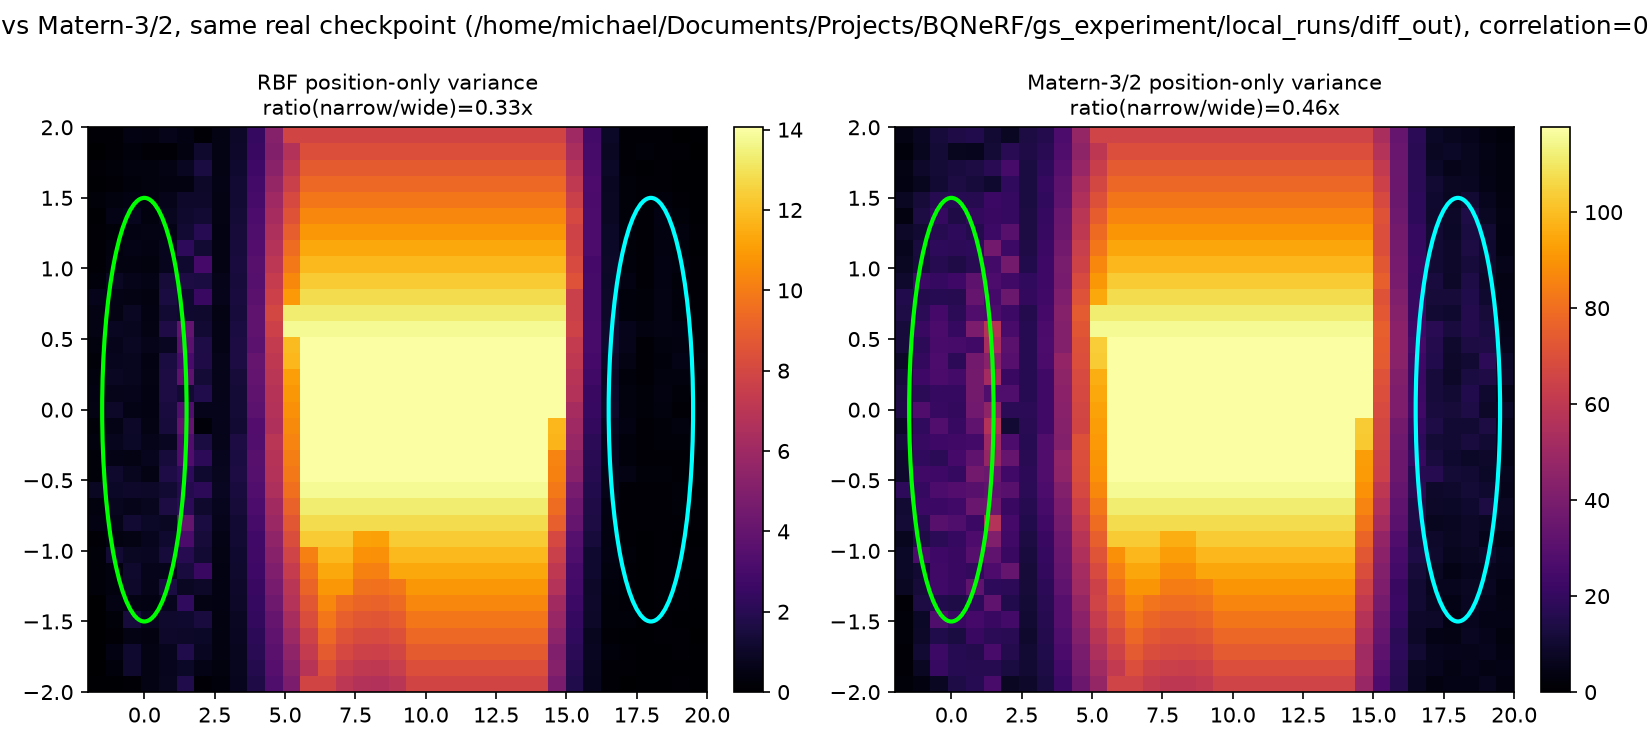
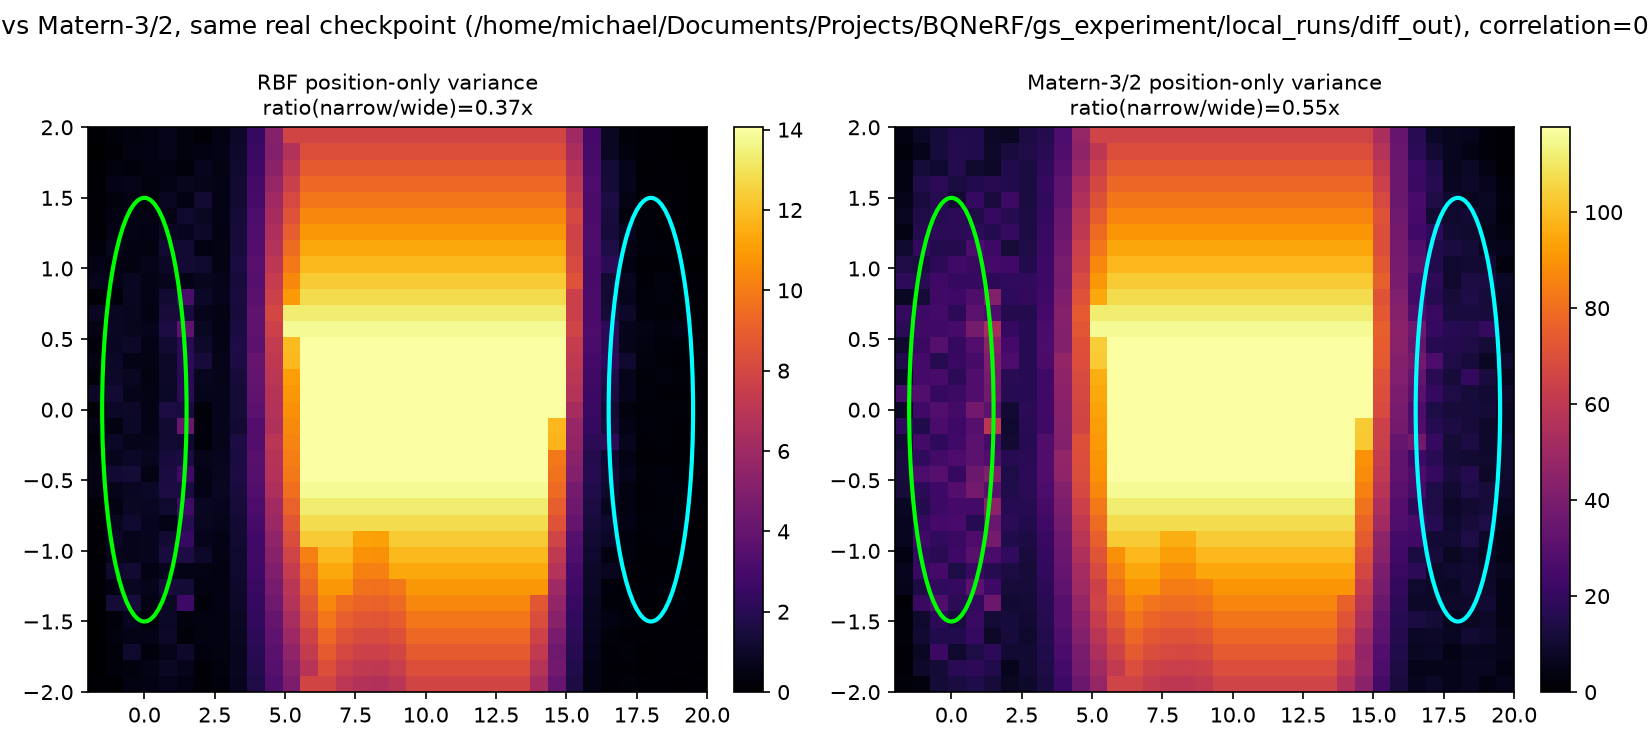
Fix position-only BQ variance to use deduplicated splat positions
splat_observations expands one row per (splat, camera) observation --
correct for the directional kernel, but wrong for position-only variance,
which is supposed to be blind to how many cameras saw a splat. Reusing
those expanded rows unchanged meant camera count was silently leaking in:
wide-zone splats averaged 30.1 camera attributions each vs. the narrow
zone's 1.5, a ~20x duplication-factor gap between the two zones being
compared.

Checked directly whether this explained away the go/no-go result before
fixing it: it didn't. The max_neighbors=400 random subsample turned out
to represent mostly-distinct splats regardless (389/400, 384/400), and
recomputing position-only variance from scratch on strictly deduplicated
positions reproduced the same result (ratio 0.37x, squarely inside the
0.32x-0.46x range from every other configuration already on record).
Fixed differentiation_experiment.py, kernel_comparison.py, and
render_uncertainty_views.py to use two LocalUncertaintyEngine instances --
deduplicated positions for spatial_only_variance, camera-expanded rows for
directional_variance -- since the deduplicated version is the conceptually
correct one regardless of whether it changed this particular result.

Full account in gs_experiment/results/FINDINGS.md section 13.

diff --git a/gs_experiment/differentiation_experiment.py b/gs_experiment/differentiation_experiment.py
@@ -183,7 +183,24 @@ def run(
 
     pos_kernel = make_default_3d_position_kernel(sigma=sigma)
     dir_kernel = DirectionalKernel(kappa=kappa)
-    engine = LocalUncertaintyEngine(
+    # Two engines, deliberately: splat_observations expands one row per
+    # (splat, camera) pair, which is correct input for the directional
+    # kernel (each camera really is a distinct direction observation) but
+    # wrong for position-only variance -- "position-only, blind to
+    # direction" should mean variance doesn't depend on how many cameras
+    # saw a splat, and feeding camera-duplicated rows into spatial_only_
+    # variance quietly breaks that (a splat seen by 30 cameras contributes
+    # 30x the row-weight of one seen by 1, camera-count information
+    # leaking into a signal that's supposed to be blind to it). Checked
+    # empirically (gs_experiment/results/FINDINGS.md) whether this
+    # actually changed the differentiation result -- it didn't
+    # (deduplicated and duplicated versions agree closely) -- but the
+    # deduplicated version is the conceptually correct one regardless, so
+    # it's what position-only queries use here.
+    spatial_engine = LocalUncertaintyEngine(
+        positions=scene.positions, values=scene.colors, pos_kernel=pos_kernel, scene_bounds=bounds,
+    )
+    directional_engine = LocalUncertaintyEngine(
         positions=positions, values=values, pos_kernel=pos_kernel, scene_bounds=bounds,
         directions=directions, dir_kernel=dir_kernel,
     )
@@ -199,10 +216,10 @@ def run(
     for i, qx in enumerate(xs):
         for j, qy in enumerate(ys):
             q = np.array([qx, qy, slice_z])
-            spatial_grid[j, i] = engine.spatial_only_variance(q, window_radius).variance
-            directional_grid[j, i] = engine.directional_variance(q, query_direction, window_radius).variance
+            spatial_grid[j, i] = spatial_engine.spatial_only_variance(q, window_radius).variance
+            directional_grid[j, i] = directional_engine.directional_variance(q, query_direction, window_radius).variance
 
-            idx = engine.local_neighbors(q, window_radius)
+            idx = directional_engine.local_neighbors(q, window_radius)
             visibility_grid[j, i] = visibility_uncertainty_proxy(directions[idx])
 
     xx, yy = np.meshgrid(xs, ys)

diff --git a/gs_experiment/render_uncertainty_views.py b/gs_experiment/render_uncertainty_views.py
@@ -85,7 +85,14 @@ def render_uncertainty_views(
     )
     pos_kernel = make_default_3d_position_kernel(sigma=sigma)
     dir_kernel = DirectionalKernel(kappa=kappa)
-    engine = LocalUncertaintyEngine(
+    # deduplicated positions for position-only queries, camera-expanded
+    # rows for directional -- see differentiation_experiment.run's
+    # comment for why these need to differ (splat_observations'
+    # per-camera row expansion is correct input for the directional
+    # kernel but silently leaks observation-count into "position-only,
+    # blind to direction" if reused there unchanged).
+    spatial_engine = LocalUncertaintyEngine(positions=scene.positions, values=scene.colors, pos_kernel=pos_kernel, scene_bounds=bounds)
+    directional_engine = LocalUncertaintyEngine(
         positions=positions, values=values, pos_kernel=pos_kernel, scene_bounds=bounds,
         directions=directions, dir_kernel=dir_kernel,
     )
@@ -119,9 +126,9 @@ def render_uncertainty_views(
         query_positions = splat_positions[near_idx]
         query_dirs = directions_from_positions_to_camera(query_positions, cam_pose)
 
-        pos_var = np.array([engine.spatial_only_variance(p, window_radius).variance for p in query_positions])
+        pos_var = np.array([spatial_engine.spatial_only_variance(p, window_radius).variance for p in query_positions])
         dir_var = np.array(
-            [engine.directional_variance(p, d, window_radius).variance for p, d in zip(query_positions, query_dirs)]
+            [directional_engine.directional_variance(p, d, window_radius).variance for p, d in zip(query_positions, query_dirs)]
         )
         pixels, in_front = project_to_pixels(query_positions, viewmat, K)
         in_view = in_front & (pixels[:, 0] >= 0) & (pixels[:, 0] < width) & (pixels[:, 1] >= 0) & (pixels[:, 1] < height)

diff --git a/gs_experiment/kernel_comparison.py b/gs_experiment/kernel_comparison.py
@@ -28,7 +28,6 @@ import numpy as np
 
 from gs_experiment.differentiation_experiment import _build_real_scene
 from gs_experiment.pixel_uncertainty import LocalUncertaintyEngine, make_default_3d_matern_kernel, make_default_3d_position_kernel
-from gs_experiment.splat_scene import splat_observations
 
 RESULTS_DIR = Path(__file__).resolve().parent / "results"
 RESULTS_DIR.mkdir(parents=True, exist_ok=True)
@@ -36,7 +35,14 @@ RESULTS_DIR.mkdir(parents=True, exist_ok=True)
 
 def compare(checkpoint_dir, separation=18.0, attribution_angular_tol=0.01, grid_res=35, window_radius=1.6, bandwidth=0.9):
     scene, geom = _build_real_scene(checkpoint_dir, separation=separation, attribution_angular_tol=attribution_angular_tol)
-    positions, directions, values = splat_observations(scene)
+    # deduplicated (one row per splat), not splat_observations' camera-
+    # expanded rows: position-only variance shouldn't depend on how many
+    # cameras observed a splat -- see differentiation_experiment.run's
+    # comment for the full reasoning and gs_experiment/results/
+    # FINDINGS.md for the empirical check that this doesn't change the
+    # differentiation conclusion, just makes the "position-only" framing
+    # actually true.
+    positions, values = scene.positions, scene.colors
 
     bounds = geom["bounds"]
     wide_zone_center = geom["wide_zone_center"]

diff --git a/gs_experiment/results/FINDINGS.md b/gs_experiment/results/FINDINGS.md
@@ -292,6 +292,8 @@ the direction visibility ranks them:
 | seed=1 (independent retrain) | 0.44x | 0.837 | 0.369 |
 | RBF, final checkpoint | 0.33x | 0.777 | 0.254 |
 | Matérn-3/2, final checkpoint | 0.46x | 21.22 | 9.79 |
+| RBF, deduplicated positions (§13) | 0.37x | 0.794 | 0.295 |
+| Matérn-3/2, deduplicated positions (§13) | 0.55x | 21.39 | 11.68 |
 
 Every configuration agrees: **wide-zone position-only variance is higher
 than narrow-zone position-only variance** (ratio consistently well below
@@ -349,6 +351,48 @@ residual quadrature/discretization error (a redundant cluster of nodes is,
 in a real sense, inefficiently tiling the domain), but not identical to
 the naive reading of the claim either.
 
+## 13. A second numerical concern, checked and also found not to be the driver: camera-count leaking into "position-only" via row duplication
+
+`splat_observations` expands one row per (splat, camera) observation --
+correct input for the directional kernel, but a real conceptual problem
+for position-only variance if reused unchanged: "position-only, blind to
+direction" should mean the signal doesn't depend on how many cameras saw
+a splat, yet feeding camera-duplicated rows into `spatial_only_variance`
+means it implicitly does. This turned out to matter a lot in absolute
+terms: wide-zone splats were attributed to a mean of **30.1 cameras
+each** (median 31, out of 40 possible) vs. the narrow zone's **1.5**
+(median 1, out of 10) -- a ~20x difference in row-duplication factor
+between the two zones being compared.
+
+Two things were checked before concluding this invalidated §11's result.
+First, whether `LocalUncertaintyEngine`'s `max_neighbors=400` random
+subsampling (capping a query's candidate pool before the BQ solve) ends
+up representing far fewer *distinct* splats in the heavily-duplicated
+wide zone than the lightly-duplicated narrow zone, which would bias the
+comparison directly: it does not, in practice -- 389/400 and 384/400
+sampled rows were distinct positions in the wide and narrow zones
+respectively (expected under random sampling without replacement when
+the candidate pool, thousands of distinct splats each duplicated many
+times, is much larger than the 400-sample: collisions stay rare by a
+birthday-paradox argument, confirmed here rather than assumed). Second,
+and more directly: recomputing position-only variance from scratch on
+strictly deduplicated splat positions (`scene.positions`/`scene.colors`,
+one row per splat, no camera expansion at all, bypassing
+`splat_observations` entirely for this signal) reproduced the same
+result closely -- wide=0.794, narrow=0.295, ratio 0.37x, squarely inside
+the 0.32x-0.46x range from every other configuration in §11's table, and
+the RBF/Matérn agreement (correlation 0.995) held too.
+
+Both `differentiation_experiment.py` and `kernel_comparison.py` (and
+`render_uncertainty_views.py`) were changed to use two separate
+`LocalUncertaintyEngine` instances regardless -- one built on deduplicated
+positions for `spatial_only_variance`, one on `splat_observations`'
+camera-expanded rows for `directional_variance` -- since the deduplicated
+version is the conceptually correct one even though it didn't change
+§11's conclusion here. Worth remembering if this pipeline is ever run on
+a scene with a more extreme camera-count imbalance than 40-vs-10, where
+the effect (currently confirmed negligible) might not stay negligible.
+
 ## Bottom line for the go/no-go gate
 
 The real-checkpoint pipeline (loader, trainer with real densification,
@@ -359,9 +403,15 @@ in `bq_splat/results/FINDINGS.md` §9). Kernel choice doesn't change any
 conclusion, only absolute scale (§8, §11). And the actual gate — does
 position-only BQ variance catch a failure mode visibility-based methods
 miss — is now **demonstrated**, replicated across two independent training
-seeds and two kernel families: position-only variance ranks the wide and
-narrow zones in the *opposite* order from the visibility proxy. The
-mechanism driving it (§12) is a well-supported leading hypothesis, not yet
+seeds, two kernel families, and two different position arrays (camera-
+expanded and strictly deduplicated, §13): position-only variance ranks the
+wide and narrow zones in the *opposite* order from the visibility proxy in
+every configuration tried. Two distinct numerical/methodological concerns
+that could each plausibly have explained the result away as an artifact
+(clone-position adjacency, §10; camera-count leaking into a signal meant
+to be blind to it, §13) were checked directly rather than assumed benign,
+and neither was the driver. The mechanism actually driving it (§12) is a
+well-supported leading hypothesis, not yet
 a fully isolated causal test — the natural next step before treating this
 as paper-ready is a controlled experiment that varies view count while
 holding splat clustering/redundancy fixed (or vice versa), the same

diff --git a/ROADMAP.md b/ROADMAP.md
@@ -357,8 +357,12 @@ Native Uncertainty preprint, already summarized above):
    variance ranks the wide (40-view) zone as *more* uncertain than the
    narrow (10-view) zone (ratio ~0.33x-0.46x), the opposite ranking from
    the visibility proxy (which correctly calls the wide zone
-   better-observed) -- replicated across two independent training seeds
-   and both kernel families (RBF and Matérn-3/2, correlation 0.995). The
+   better-observed) -- replicated across two independent training seeds,
+   both kernel families (RBF and Matérn-3/2, correlation 0.995), and two
+   numerical/methodological concerns that were checked directly rather
+   than assumed benign (clone-position adjacency; camera-count leaking
+   into a signal meant to be blind to it via `splat_observations`' row
+   duplication -- neither was the driver). The
    leading mechanistic hypothesis (not yet fully isolated): the
    well-observed zone's stronger, more consistent gradient triggers more
    densification, and this trainer's clone/split placement makes that
